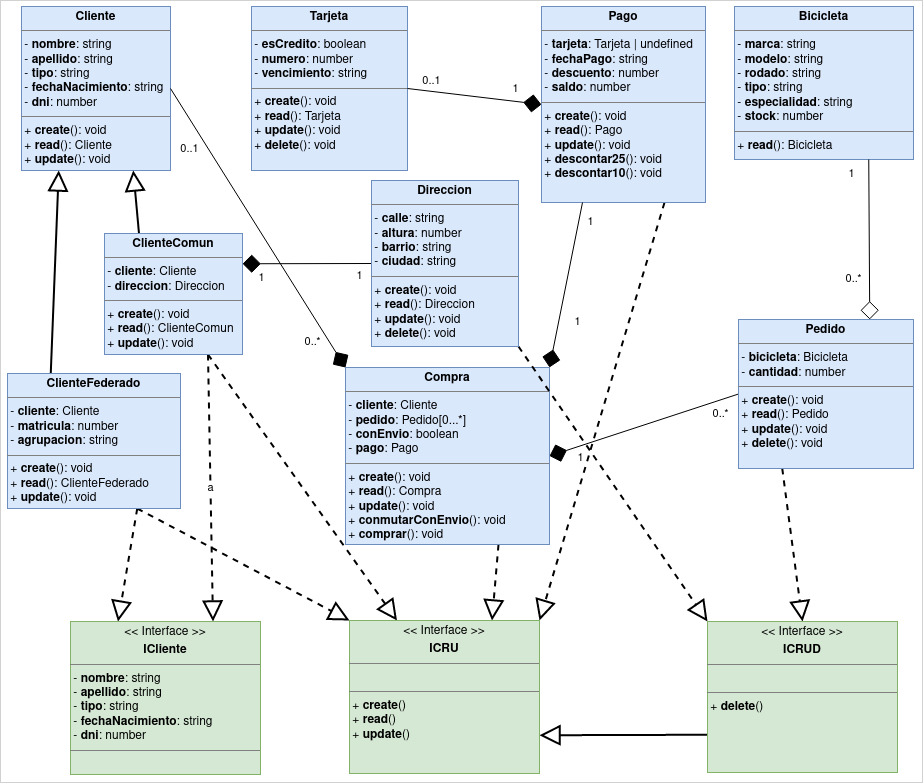
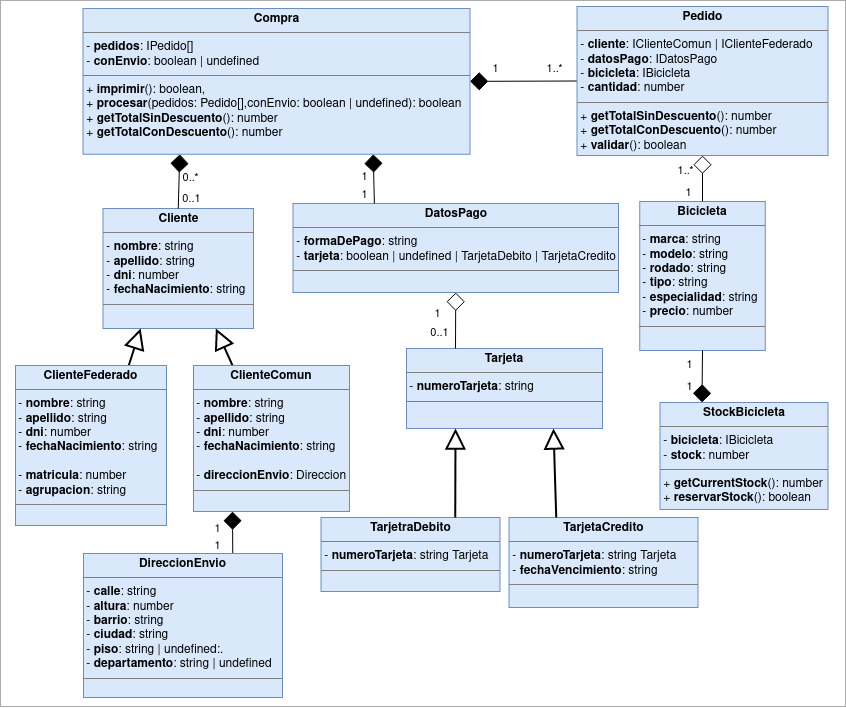
agregado de metodos validar() en la clase Pedido y reservarStock() en StockBicicleta

diff --git a/backend/src/App.ts b/backend/src/App.ts
@@ -1,9 +1,7 @@
 import ClienteComun from "./classes/ClienteComun";
 import ClienteFederado from "./classes/ClienteFederado";
-import IBicicleta from "./interfaces/IBicicleta";
 import Pedido from "./classes/Pedido";
 import DireccionEnvio from "./classes/DireccionEnvio";
-import StockBicicleta from "./classes/StockBicicleta";
 import DatosPago from "./classes/DatosPago";
 import IClienteComun from "./interfaces/IClienteComun";
 import IClienteFederado from "./interfaces/IClienteFederado";
@@ -78,8 +76,8 @@ const clienteComun = crearClienteComun();
 const conEnvio = true;
 const clienteFederado = crearClienteFederado();
 
-cliente = clienteFederado;
 // cliente = clienteComun;
+cliente = clienteFederado;
 
 console.log(`Tipo: ${cliente.constructor.name}`);
 console.log(Object.entries(cliente))
@@ -133,38 +131,25 @@ console.log(`
 Pedidos: SUBTOTALES con y sin descuentos
 *******************************`);
 
-export const validacionPedido = (bici: IBicicleta, cantidad: number) => {
-    const stockBicicleta = new StockBicicleta(bici);
-    return (stockBicicleta.stock > 0 &&
-        stockBicicleta.stock >= cantidad &&
-        !!bici.precio);
-}
 const bici1 = bicicletasMock[0]; // opciones 0 a 3
 const cantidadBici1 = 1;
+const pedido1 = new Pedido(cliente, datosPago, bici1, cantidadBici1)
+pedido1.validar() && pedidos.push(pedido1);
 
-export function crearPedido(
-    cliente: IClienteComun | IClienteFederado,
-    datosPago: IDatosPago,
-    bici: IBicicleta,
-    cantidad: number
-) {
-    return new Pedido(cliente, datosPago, bici, cantidad);
-}
-
-validacionPedido(bici1, cantidadBici1) &&
-pedidos.push(crearPedido(cliente, datosPago, bici1, cantidadBici1));
 const bici2 = bicicletasMock[1]; // opciones 0 a 3
 const cantidadBici2 = 1;
-validacionPedido(bici2, cantidadBici2) &&
-pedidos.push(crearPedido(cliente, datosPago, bici2, cantidadBici2));
+const pedido2 = new Pedido(cliente, datosPago, bici2, cantidadBici2)
+pedido1.validar() && pedidos.push(pedido2);
+
 const bici3 = bicicletasMock[2]; // opciones 0 a 3
 const cantidadBici3 = 1;
-validacionPedido(bici3, cantidadBici3) &&
-pedidos.push(crearPedido(cliente, datosPago, bici3, cantidadBici3));
+const pedido3 = new Pedido(cliente, datosPago, bici3, cantidadBici3)
+pedido1.validar() && pedidos.push(pedido3);
+
 const bici4 = bici3;
 const cantidadBici4 = cantidadBici3;
-validacionPedido(bici4, cantidadBici4) &&
-pedidos.push(crearPedido(cliente, datosPago, bici4, cantidadBici4));
+const pedido4 = new Pedido(cliente, datosPago, bici4, cantidadBici4)
+pedido1.validar() && pedidos.push(pedido4);
 
 export function crearCompra(
     pedidos: IPedido[],

diff --git a/backend/tests/App.spec.ts b/backend/tests/App.spec.ts
@@ -5,8 +5,7 @@ import {
     crearTarjetaCredito,
     crearTarjetaDebito,
     crearDatosPago,
-    validacionPedido,
-    crearPedido, crearCompra,
+    crearCompra,
 } from "../src/App";
 import {bicicletasMock} from "../src/constants/bicicletasMock";
 import {clientesFederadosMock} from "../src/constants/clientesFederadosMock";
@@ -68,7 +67,7 @@ describe("Unit tests for purchasing bicycles", () => {
         });
         it(objectDataTypeDescribeMsg('Pedido'), () => {
             equal(
-                crearPedido(
+                new Pedido(
                     clientesFederadosMock[0],
                     pagosMock[0],
                     bicicletasMock[0],
@@ -97,9 +96,28 @@ describe("Unit tests for purchasing bicycles", () => {
 
         it(validatorsDescribeMsg('Validador de Pedido'), () => {
             equal(
-                typeof (validacionPedido(bicicletasMock[0], 1)),
+                typeof(new Pedido(
+                        clientesFederadosMock[0],
+                        pagosMock[0],
+                        bicicletasMock[0],
+                        1,
+                    ).validar()),
                 'boolean',
                 '\n' + validatorsFails('boolean')
+            );
+        });
+
+        it(validatorsDescribeMsg('Validadar que funcione bien cuando FALTA Stock para la bicicleta solicitada'), () => {
+            // new StockBicicleta(bicicletasMock[0]);
+            equal(
+                new Pedido(
+                    clientesFederadosMock[0],
+                    pagosMock[0],
+                    bicicletasMock[0],
+                    100000000000000,
+                ).validar(),
+                false,
+                '\n' + validatorsFails('false')
             );
         });
     });

diff --git a/backend/src/classes/Pedido.ts b/backend/src/classes/Pedido.ts
@@ -7,6 +7,7 @@ import IClienteFederado from "../interfaces/IClienteFederado";
 import {tiposDeClienteEnum} from "../constants/tiposDeClienteEnum";
 import {especialidadesEnum} from "../constants/especialidadesEnum";
 import {formasDePagoEnum} from "../constants/formasDePagoEnum";
+import StockBicicleta from "./StockBicicleta";
 
 export default class Pedido implements IPedido {
     private _cliente: IClienteComun | IClienteFederado;
@@ -20,10 +21,10 @@ export default class Pedido implements IPedido {
         bicicleta: IBicicleta,
         cantidad: number,
     ) {
-        this._cliente = cliente;
-        this._datosPago = datosPago;
-        this._bicicleta = bicicleta;
-        this._cantidad = cantidad;
+            this._cliente = cliente;
+            this._datosPago = datosPago;
+            this._bicicleta = bicicleta;
+            this._cantidad = cantidad;
     }
 
     get cliente(): IClienteComun | IClienteFederado {
@@ -56,6 +57,17 @@ export default class Pedido implements IPedido {
 
     set cantidad(value: number) {
         this._cantidad = value;
+    }
+
+    public validar(): boolean {
+        const stockBicicleta = new StockBicicleta(this._bicicleta);
+        return (
+            !!stockBicicleta.stock
+            &&
+            stockBicicleta.stock >= this._cantidad
+            &&
+            !!this._bicicleta.precio
+        );
     }
 
     public getTotalConDescuento(): number {

diff --git a/backend/src/classes/StockBicicleta.ts b/backend/src/classes/StockBicicleta.ts
@@ -1,4 +1,4 @@
-//responsabilidad: informar stock de item deseada
+//responsabilidad: informar stock de item deseada solo si hay o no hay
 /*
  "de la item se conoce" dice el enunciado, lo cual no deja explicito
  la consigna si es obligación o no que el atributo stock este dentro o
@@ -17,11 +17,8 @@ export default class StockBicicleta implements IStockBicicleta {
     constructor(
         bicicleta: IBicicleta,
     ) {
-        this._bicicleta = bicicleta;
-        this.stock = productosMock.find((producto) =>
-            producto.item.marca === this._bicicleta.marca
-            &&
-            producto.item.modelo === this._bicicleta.modelo)?.stock || 0;
+        this._bicicleta = bicicleta; //setea la bicicleta que se esta preguntando si hay o no stock
+        this._stock = this.getCurrentStock() || 0; // trae el stock disponible de la base
     }
 
     get bicicleta(): IBicicleta {
@@ -43,5 +40,11 @@ export default class StockBicicleta implements IStockBicicleta {
     public getCurrentStock = () => {
         this._stock = productosMock.find((bici) => bici.item === this._bicicleta)?.stock || 0;
         return (this._stock);
+    }
+
+    public reservarStock = (cantidad: number) => {
+        const reservaPermitida = this._stock - cantidad >= 0;
+        if (reservaPermitida) this._stock -= cantidad; // actualiza el stock
+        return(reservaPermitida);
     }
 }

diff --git a/backend/src/classes/Bicicleta.ts b/backend/src/classes/Bicicleta.ts
@@ -1,5 +1,6 @@
 //responsabilidad: almacenar datos de item deseada
 import IBicicleta from "../interfaces/IBicicleta";
+import StockBicicleta from "./StockBicicleta";
 
 export default class Bicicleta implements IBicicleta {
 
@@ -10,7 +11,12 @@ export default class Bicicleta implements IBicicleta {
     private _especialidad: string;
     private _precio: number;
 
-    constructor(marca: string, modelo: string, rodado: string, tipo: string, especialidad: string, precio: number) {
+    constructor(marca: string,
+                modelo: string,
+                rodado: string,
+                tipo: string,
+                especialidad: string,
+                precio: number) {
         this._marca = marca;
         this._modelo = modelo;
         this._rodado = rodado;

diff --git a/backend/src/interfaces/IStockBicicleta.ts b/backend/src/interfaces/IStockBicicleta.ts
@@ -5,4 +5,5 @@ export default interface IStockBicicleta {
     stock: number,
 
     getCurrentStock(): number,
+    reservarStock(cantidad: number): boolean,
 }
